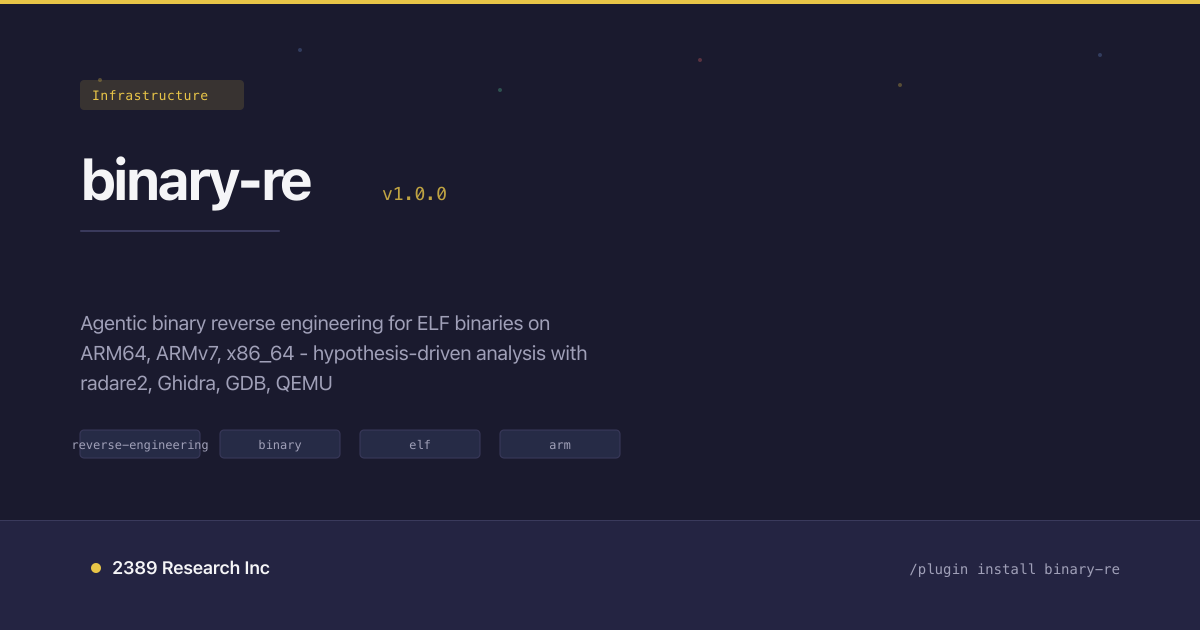
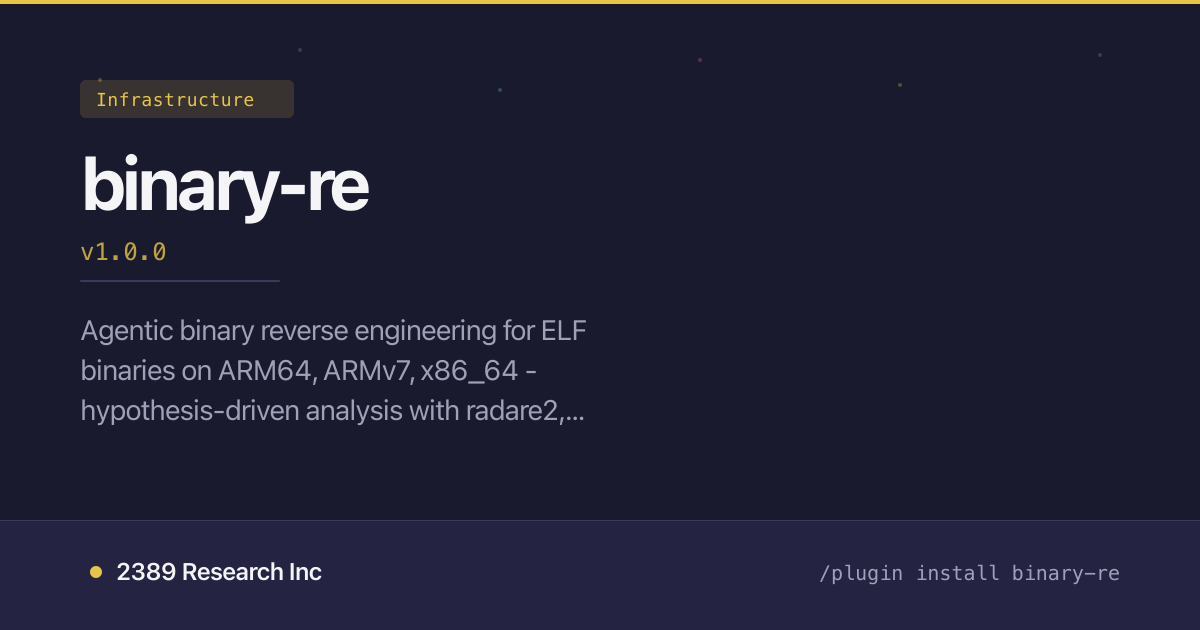
fix: remove tags from OG images and increase all text sizes
- Remove keyword tag badges from plugin OG images
- Bump plugin name from 56px to 72px
- Bump description from 20px to 28px
- Bump category badge from 13px to 18px
- Bump version from 18px to 24px
- Bump branding from 18px to 24px, install command from 14px to 20px
- Bump marketplace title from 60px to 76px
- Bump marketplace subtitle from 20px to 26px
- Bump stats from 36px to 48px, labels from 13px to 18px
- Reduce description wrap width to 45 chars for larger text

diff --git a/scripts/generate-og-images.js b/scripts/generate-og-images.js
@@ -71,22 +71,12 @@ function generatePluginSvg(plugin) {
   const name = escapeXml(plugin.name);
   const category = escapeXml(getCategoryTitle(plugin));
   const description = cleanDescription(plugin.description);
-  const descLines = wrapText(description, 55);
-  const tags = (plugin.keywords || []).slice(0, 4);
+  const descLines = wrapText(description, 45);
   const version = plugin.version || '1.0.0';
-
-  // Tag badges
-  const tagsSvg = tags.map((tag, i) => {
-    const x = 80 + i * 140;
-    const tagText = escapeXml(tag);
-    return `
-      <rect x="${x}" y="430" width="120" height="28" rx="4" fill="rgba(107, 140, 206, 0.15)" stroke="#3a3a5c" stroke-width="1"/>
-      <text x="${x + 60}" y="449" font-family="monospace" font-size="12" fill="#a0a0b8" text-anchor="middle">${tagText}</text>`;
-  }).join('');
 
   // Description lines
   const descSvg = descLines.map((line, i) => {
-    return `<text x="80" y="${330 + i * 30}" font-family="system-ui, -apple-system, 'Segoe UI', sans-serif" font-size="20" fill="#a0a0b8">${escapeXml(line)}</text>`;
+    return `<text x="80" y="${340 + i * 40}" font-family="system-ui, -apple-system, 'Segoe UI', sans-serif" font-size="28" fill="#a0a0b8">${escapeXml(line)}</text>`;
   }).join('\n      ');
 
   return `<svg width="1200" height="630" xmlns="http://www.w3.org/2000/svg">
@@ -108,36 +98,33 @@ function generatePluginSvg(plugin) {
     <rect x="0" y="0" width="1200" height="4" fill="#e8c547"/>
 
     <!-- Category badge -->
-    <rect x="80" y="80" width="${category.length * 10 + 24}" height="30" rx="4" fill="rgba(232, 197, 71, 0.15)"/>
-    <text x="92" y="100" font-family="monospace" font-size="13" fill="#e8c547" letter-spacing="0.5">${category}</text>
+    <rect x="80" y="80" width="${category.length * 13 + 32}" height="38" rx="6" fill="rgba(232, 197, 71, 0.15)"/>
+    <text x="96" y="106" font-family="monospace" font-size="18" fill="#e8c547" letter-spacing="0.5">${category}</text>
 
     <!-- Plugin name -->
-    <text x="80" y="200" font-family="system-ui, -apple-system, 'Segoe UI', sans-serif" font-size="56" font-weight="bold" fill="#f5f5f7" letter-spacing="-1">${name}</text>
+    <text x="80" y="210" font-family="system-ui, -apple-system, 'Segoe UI', sans-serif" font-size="72" font-weight="bold" fill="#f5f5f7" letter-spacing="-2">${name}</text>
 
     <!-- Version -->
-    <text x="${85 + name.length * 33}" y="200" font-family="monospace" font-size="18" fill="#e8c547" opacity="0.8">v${escapeXml(version)}</text>
+    <text x="80" y="260" font-family="monospace" font-size="24" fill="#e8c547" opacity="0.8">v${escapeXml(version)}</text>
 
     <!-- Divider line -->
-    <rect x="80" y="230" width="200" height="2" fill="#3a3a5c" rx="1"/>
+    <rect x="80" y="280" width="200" height="2" fill="#3a3a5c" rx="1"/>
 
     <!-- Description -->
     ${descSvg}
-
-    <!-- Tags -->
-    ${tagsSvg}
 
     <!-- Bottom bar -->
     <rect x="0" y="520" width="1200" height="110" fill="#242442"/>
     <rect x="0" y="520" width="1200" height="1" fill="#3a3a5c"/>
 
     <!-- Status indicator dot -->
-    <circle cx="96" cy="568" r="5" fill="#e8c547"/>
+    <circle cx="96" cy="572" r="6" fill="#e8c547"/>
 
     <!-- Branding -->
-    <text x="112" y="574" font-family="system-ui, -apple-system, 'Segoe UI', sans-serif" font-size="18" font-weight="600" fill="#f5f5f7">2389 Research Inc</text>
+    <text x="116" y="580" font-family="system-ui, -apple-system, 'Segoe UI', sans-serif" font-size="24" font-weight="600" fill="#f5f5f7">2389 Research Inc</text>
 
     <!-- Install command -->
-    <text x="1120" y="574" font-family="monospace" font-size="14" fill="#a0a0b8" text-anchor="end">/plugin install ${name}</text>
+    <text x="1120" y="580" font-family="monospace" font-size="20" fill="#a0a0b8" text-anchor="end">/plugin install ${name}</text>
   </svg>`;
 }
 
@@ -165,38 +152,38 @@ function generateMarketplaceSvg() {
     <rect x="0" y="0" width="1200" height="4" fill="#e8c547"/>
 
     <!-- Label -->
-    <circle cx="88" cy="125" r="4" fill="#e8c547"/>
-    <text x="100" y="130" font-family="monospace" font-size="13" fill="#a0a0b8" letter-spacing="1.5">WELCOME, FELLOW BUILDER</text>
+    <circle cx="88" cy="110" r="5" fill="#e8c547"/>
+    <text x="104" y="116" font-family="monospace" font-size="18" fill="#a0a0b8" letter-spacing="1.5">WELCOME, FELLOW BUILDER</text>
 
     <!-- Title -->
-    <text x="80" y="230" font-family="system-ui, -apple-system, 'Segoe UI', sans-serif" font-size="60" font-weight="bold" fill="#f5f5f7" letter-spacing="-1.5">Plugins that actually</text>
-    <text x="80" y="300" font-family="system-ui, -apple-system, 'Segoe UI', sans-serif" font-size="60" font-weight="bold" fill="#f5f5f7" letter-spacing="-1.5">get stuff done</text>
+    <text x="80" y="220" font-family="system-ui, -apple-system, 'Segoe UI', sans-serif" font-size="76" font-weight="bold" fill="#f5f5f7" letter-spacing="-2">Plugins that actually</text>
+    <text x="80" y="305" font-family="system-ui, -apple-system, 'Segoe UI', sans-serif" font-size="76" font-weight="bold" fill="#f5f5f7" letter-spacing="-2">get stuff done</text>
 
     <!-- Subtitle -->
-    <text x="80" y="360" font-family="system-ui, -apple-system, 'Segoe UI', sans-serif" font-size="20" fill="#a0a0b8">Open source Claude Code plugins and MCP servers from 2389 Research.</text>
-    <text x="80" y="390" font-family="system-ui, -apple-system, 'Segoe UI', sans-serif" font-size="20" fill="#a0a0b8">The tools we use every day to build, ship, and not lose our minds.</text>
+    <text x="80" y="370" font-family="system-ui, -apple-system, 'Segoe UI', sans-serif" font-size="26" fill="#a0a0b8">Open source Claude Code plugins and MCP servers from 2389 Research.</text>
+    <text x="80" y="405" font-family="system-ui, -apple-system, 'Segoe UI', sans-serif" font-size="26" fill="#a0a0b8">The tools we use every day to build, ship, and not lose our minds.</text>
 
     <!-- Stats -->
-    <text x="80" y="460" font-family="system-ui, -apple-system, 'Segoe UI', sans-serif" font-size="36" font-weight="bold" fill="#f5f5f7">${pluginCount}</text>
-    <text x="${85 + String(pluginCount).length * 22}" y="460" font-family="monospace" font-size="13" fill="#a0a0b8" letter-spacing="0.5">PLUGINS</text>
+    <text x="80" y="480" font-family="system-ui, -apple-system, 'Segoe UI', sans-serif" font-size="48" font-weight="bold" fill="#f5f5f7">${pluginCount}</text>
+    <text x="${90 + String(pluginCount).length * 28}" y="480" font-family="monospace" font-size="18" fill="#a0a0b8" letter-spacing="0.5">PLUGINS</text>
 
-    <rect x="220" y="435" width="1" height="35" fill="#3a3a5c"/>
+    <rect x="260" y="450" width="1" height="40" fill="#3a3a5c"/>
 
-    <text x="245" y="460" font-family="system-ui, -apple-system, 'Segoe UI', sans-serif" font-size="36" font-weight="bold" fill="#f5f5f7">100%</text>
-    <text x="355" y="460" font-family="monospace" font-size="13" fill="#a0a0b8" letter-spacing="0.5">OPEN SOURCE</text>
+    <text x="290" y="480" font-family="system-ui, -apple-system, 'Segoe UI', sans-serif" font-size="48" font-weight="bold" fill="#f5f5f7">100%</text>
+    <text x="440" y="480" font-family="monospace" font-size="18" fill="#a0a0b8" letter-spacing="0.5">OPEN SOURCE</text>
 
     <!-- Bottom bar -->
     <rect x="0" y="520" width="1200" height="110" fill="#242442"/>
     <rect x="0" y="520" width="1200" height="1" fill="#3a3a5c"/>
 
     <!-- Status indicator dot -->
-    <circle cx="96" cy="568" r="5" fill="#e8c547"/>
+    <circle cx="96" cy="572" r="6" fill="#e8c547"/>
 
     <!-- Branding -->
-    <text x="112" y="574" font-family="system-ui, -apple-system, 'Segoe UI', sans-serif" font-size="18" font-weight="600" fill="#f5f5f7">2389 Research Inc</text>
+    <text x="116" y="580" font-family="system-ui, -apple-system, 'Segoe UI', sans-serif" font-size="24" font-weight="600" fill="#f5f5f7">2389 Research Inc</text>
 
     <!-- URL -->
-    <text x="1120" y="574" font-family="monospace" font-size="14" fill="#a0a0b8" text-anchor="end">2389-research.github.io/claude-plugins</text>
+    <text x="1120" y="580" font-family="monospace" font-size="20" fill="#a0a0b8" text-anchor="end">2389-research.github.io/claude-plugins</text>
   </svg>`;
 }
 
